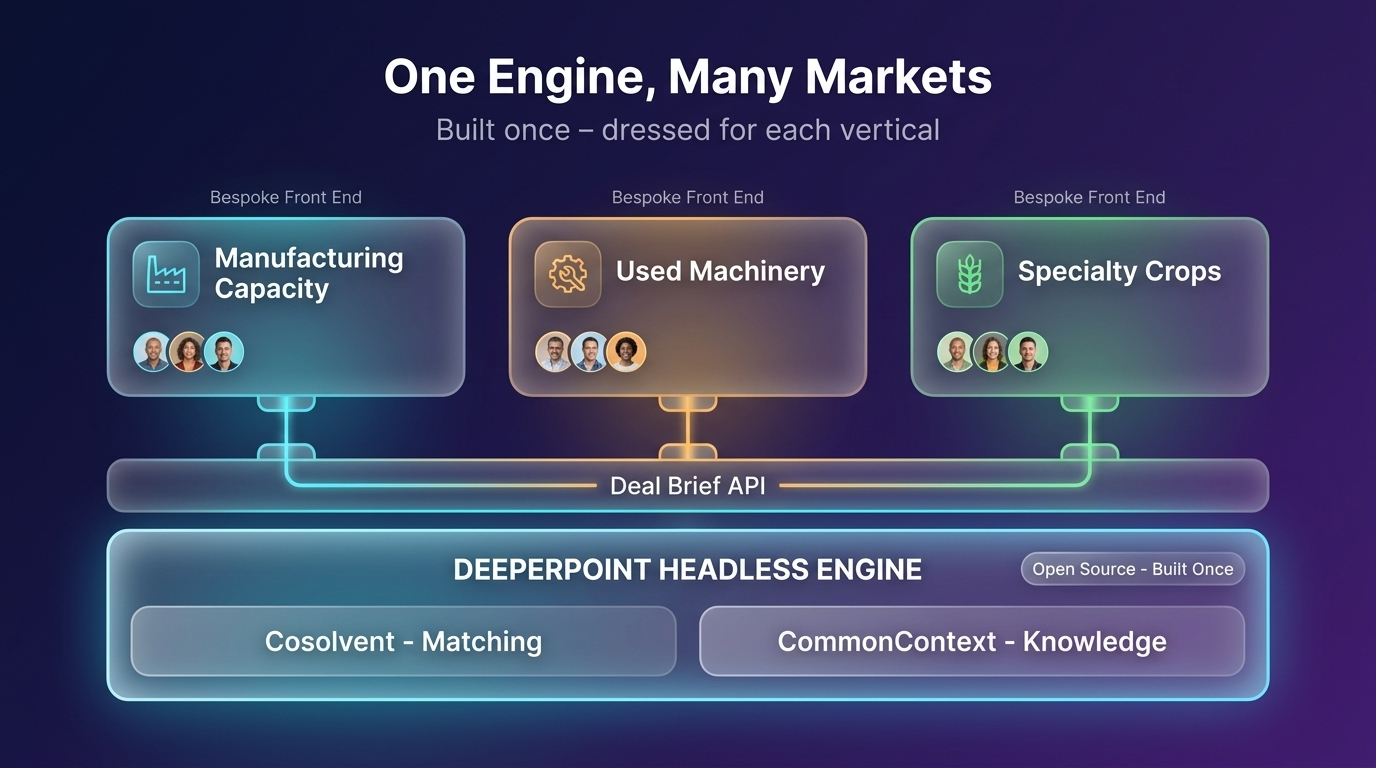
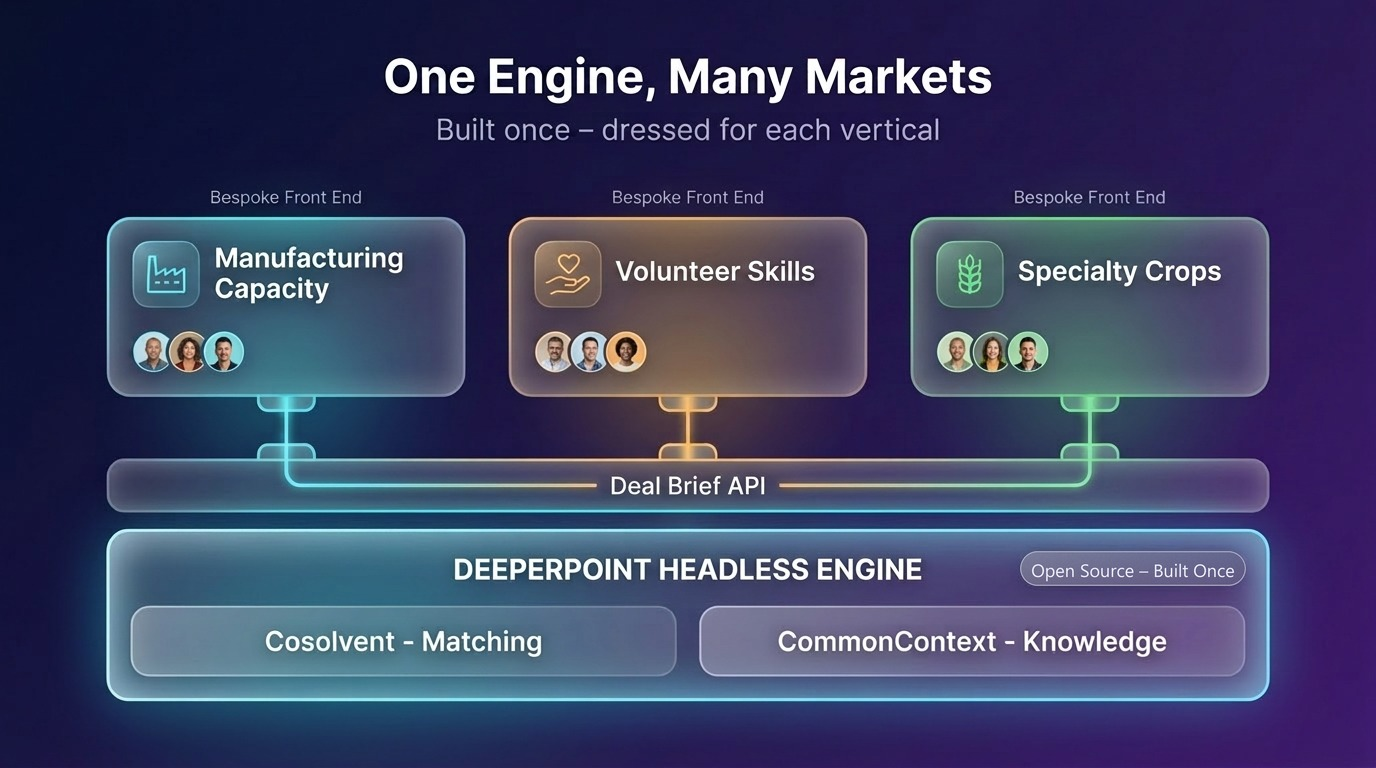
fix: swap Used Machinery for Volunteer Skills in Platform diagram; fix badge typo
Middle panel now shows a non-commercial market example (Volunteer Skills,
heart-in-hand icon) per review feedback. Also corrects the badge typo
present in the original render ("Buiit Once" -> "Built Once").

Changed region(s): [[0.375, 0.3125, 0.5938, 0.375], [0.75, 0.7188, 0.9062, 0.7812]]

diff --git a/platform.html b/platform.html
@@ -64,7 +64,7 @@
             <div class="reveal" style="margin-top: var(--space-xl); text-align: center;">
                 <figure style="margin: 0; display: inline-block; max-width: 900px; width: 100%;">
                     <img src="assets/myimages/one-engine-many-markets.jpg"
-                        alt="One engine, many markets: three bespoke market front ends — Manufacturing Capacity, Used Machinery, and Specialty Crops — each plugged into the same open-source DeeperPoint headless engine (Cosolvent matching plus CommonContext knowledge) through the Deal Brief API."
+                        alt="One engine, many markets: three bespoke market front ends — Manufacturing Capacity, Volunteer Skills, and Specialty Crops — each plugged into the same open-source DeeperPoint headless engine (Cosolvent matching plus CommonContext knowledge) through the Deal Brief API."
                         loading="lazy"
                         style="width: 100%; border-radius: var(--radius-lg); border: 1px solid rgba(255, 255, 255, 0.1); box-shadow: 0 8px 32px rgba(0, 0, 0, 0.3);">
                     <figcaption style="color: var(--dp-muted); font-size: 0.8125rem; margin-top: var(--space-xs);">
